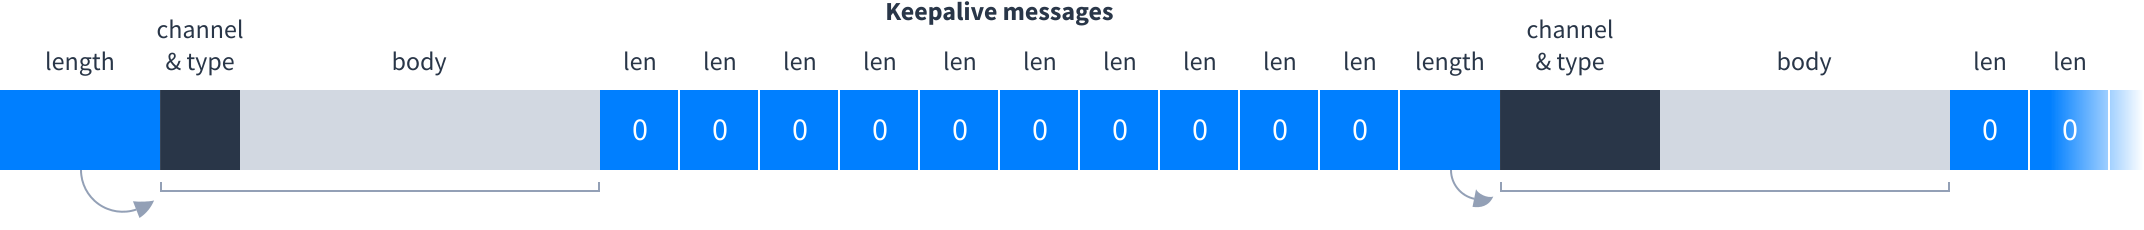
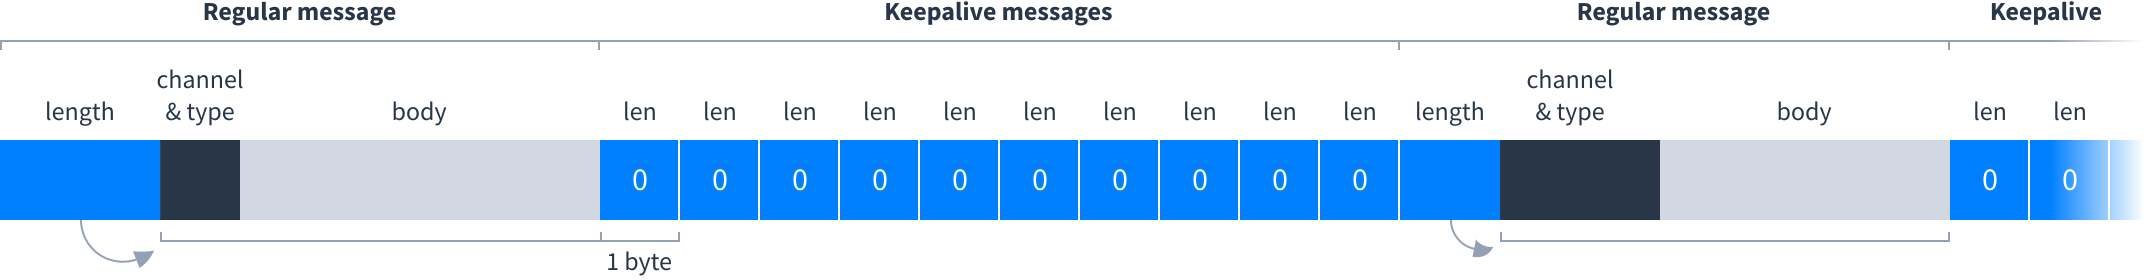
Keepalive figure improvements

diff --git a/index.html b/index.html
@@ -833,10 +833,10 @@ aside.basealign, .impl {
             <img class="pagewidth" src="png/varint.png" width="1072" height="610"/>
 
             <h2 id="keepalive">Keepalive</h2>
-            <p>Keepalive messages are empty messages containing no channel number, type or body. They are discarded upon being received. Sending keepalives is necessary when there is a network middlebox that kills TCP connections which haven’t sent any data in a while. In these cases each peer periodically sends keepalive messages to each other when no other data is being sent.</p>
+            <p>Keepalive messages are empty messages containing no channel number, type or body. They are discarded upon being received. Sending keepalives is necessary when there is a network middlebox that kills TCP connections which haven’t sent any data in a while. In these cases each peer periodically sends keepalive messages when no other data is being sent.</p>
             <aside>How frequently to send keepalive messages is essentially a guess based on what types of middleboxes are commonly used on the internet today. Other TCP-based protocols typically send keepalives every 30 to 120 seconds.</aside>
             <p>Here’s an example of several keepalive messages interleaved with messages containing actual data. Each keepalive message is a single byte of zero:</p>
-            <img class="pagewidth" src="png/wire_protocol_keepalive.png" width="1072" height="115"/>
+            <img class="pagewidth" src="png/wire_protocol_keepalive.png" width="1072" height="140"/>
 
             <h2 id="message-structure">Message structure</h2>
             <p>Within each message body is a series of field tags and values:</p>
